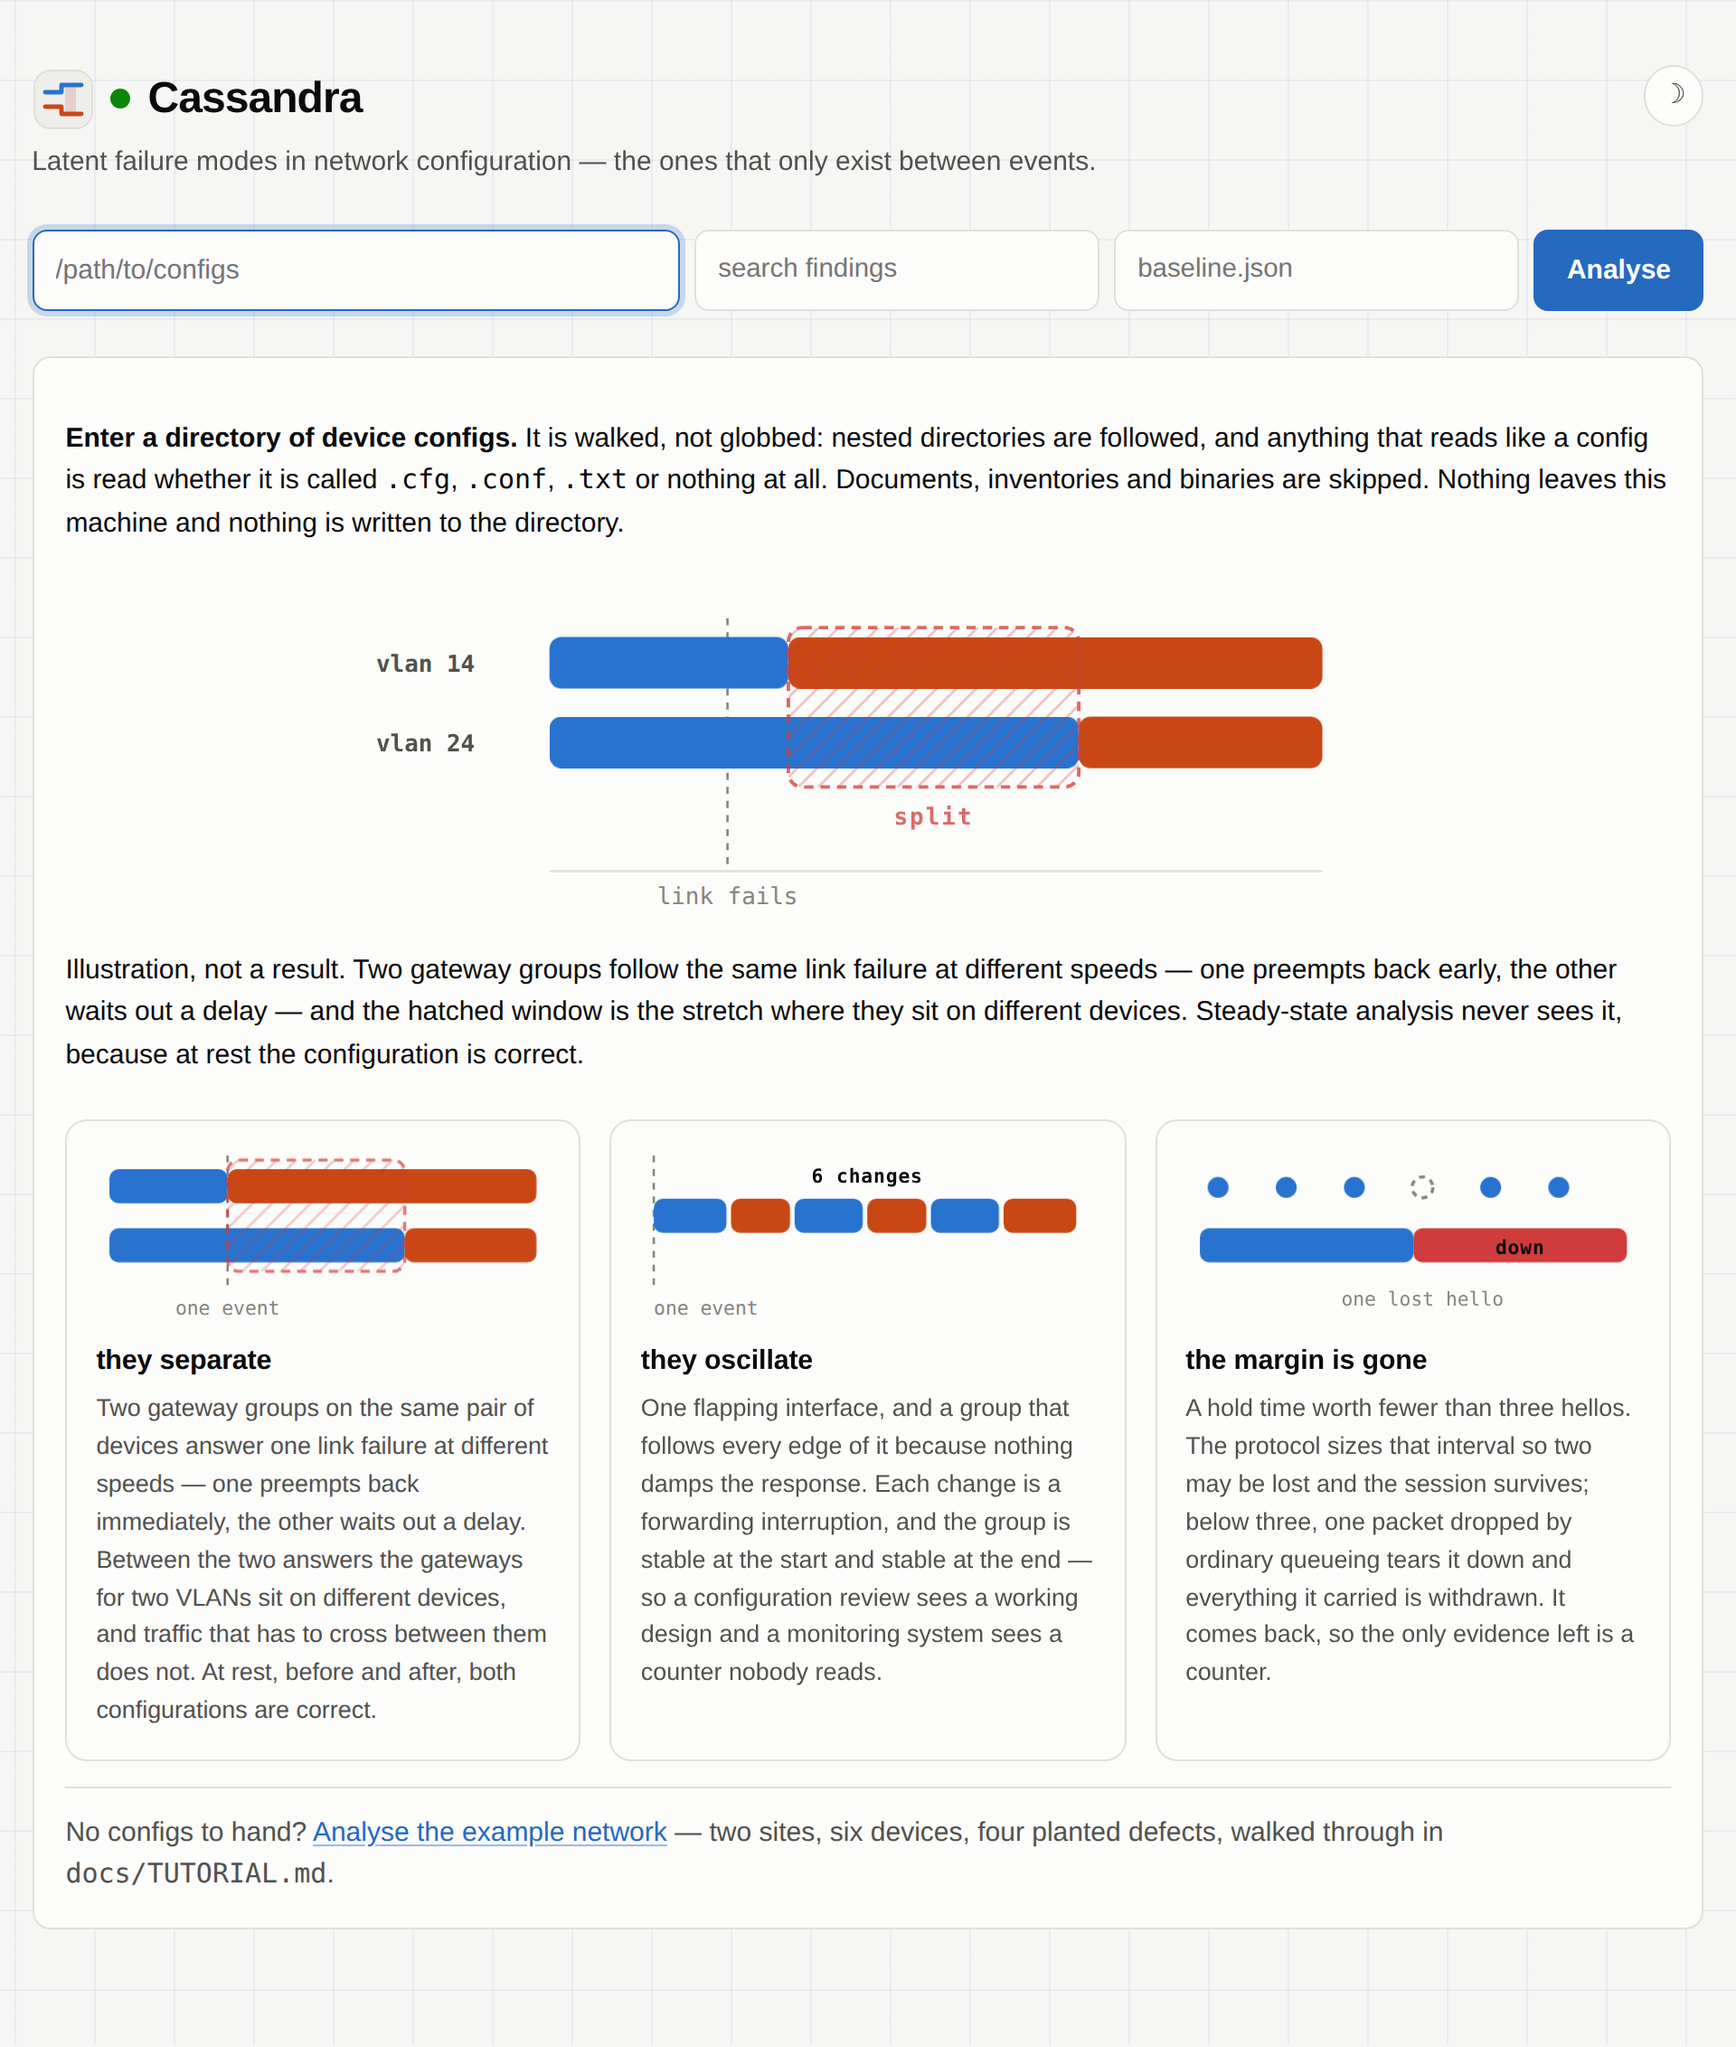
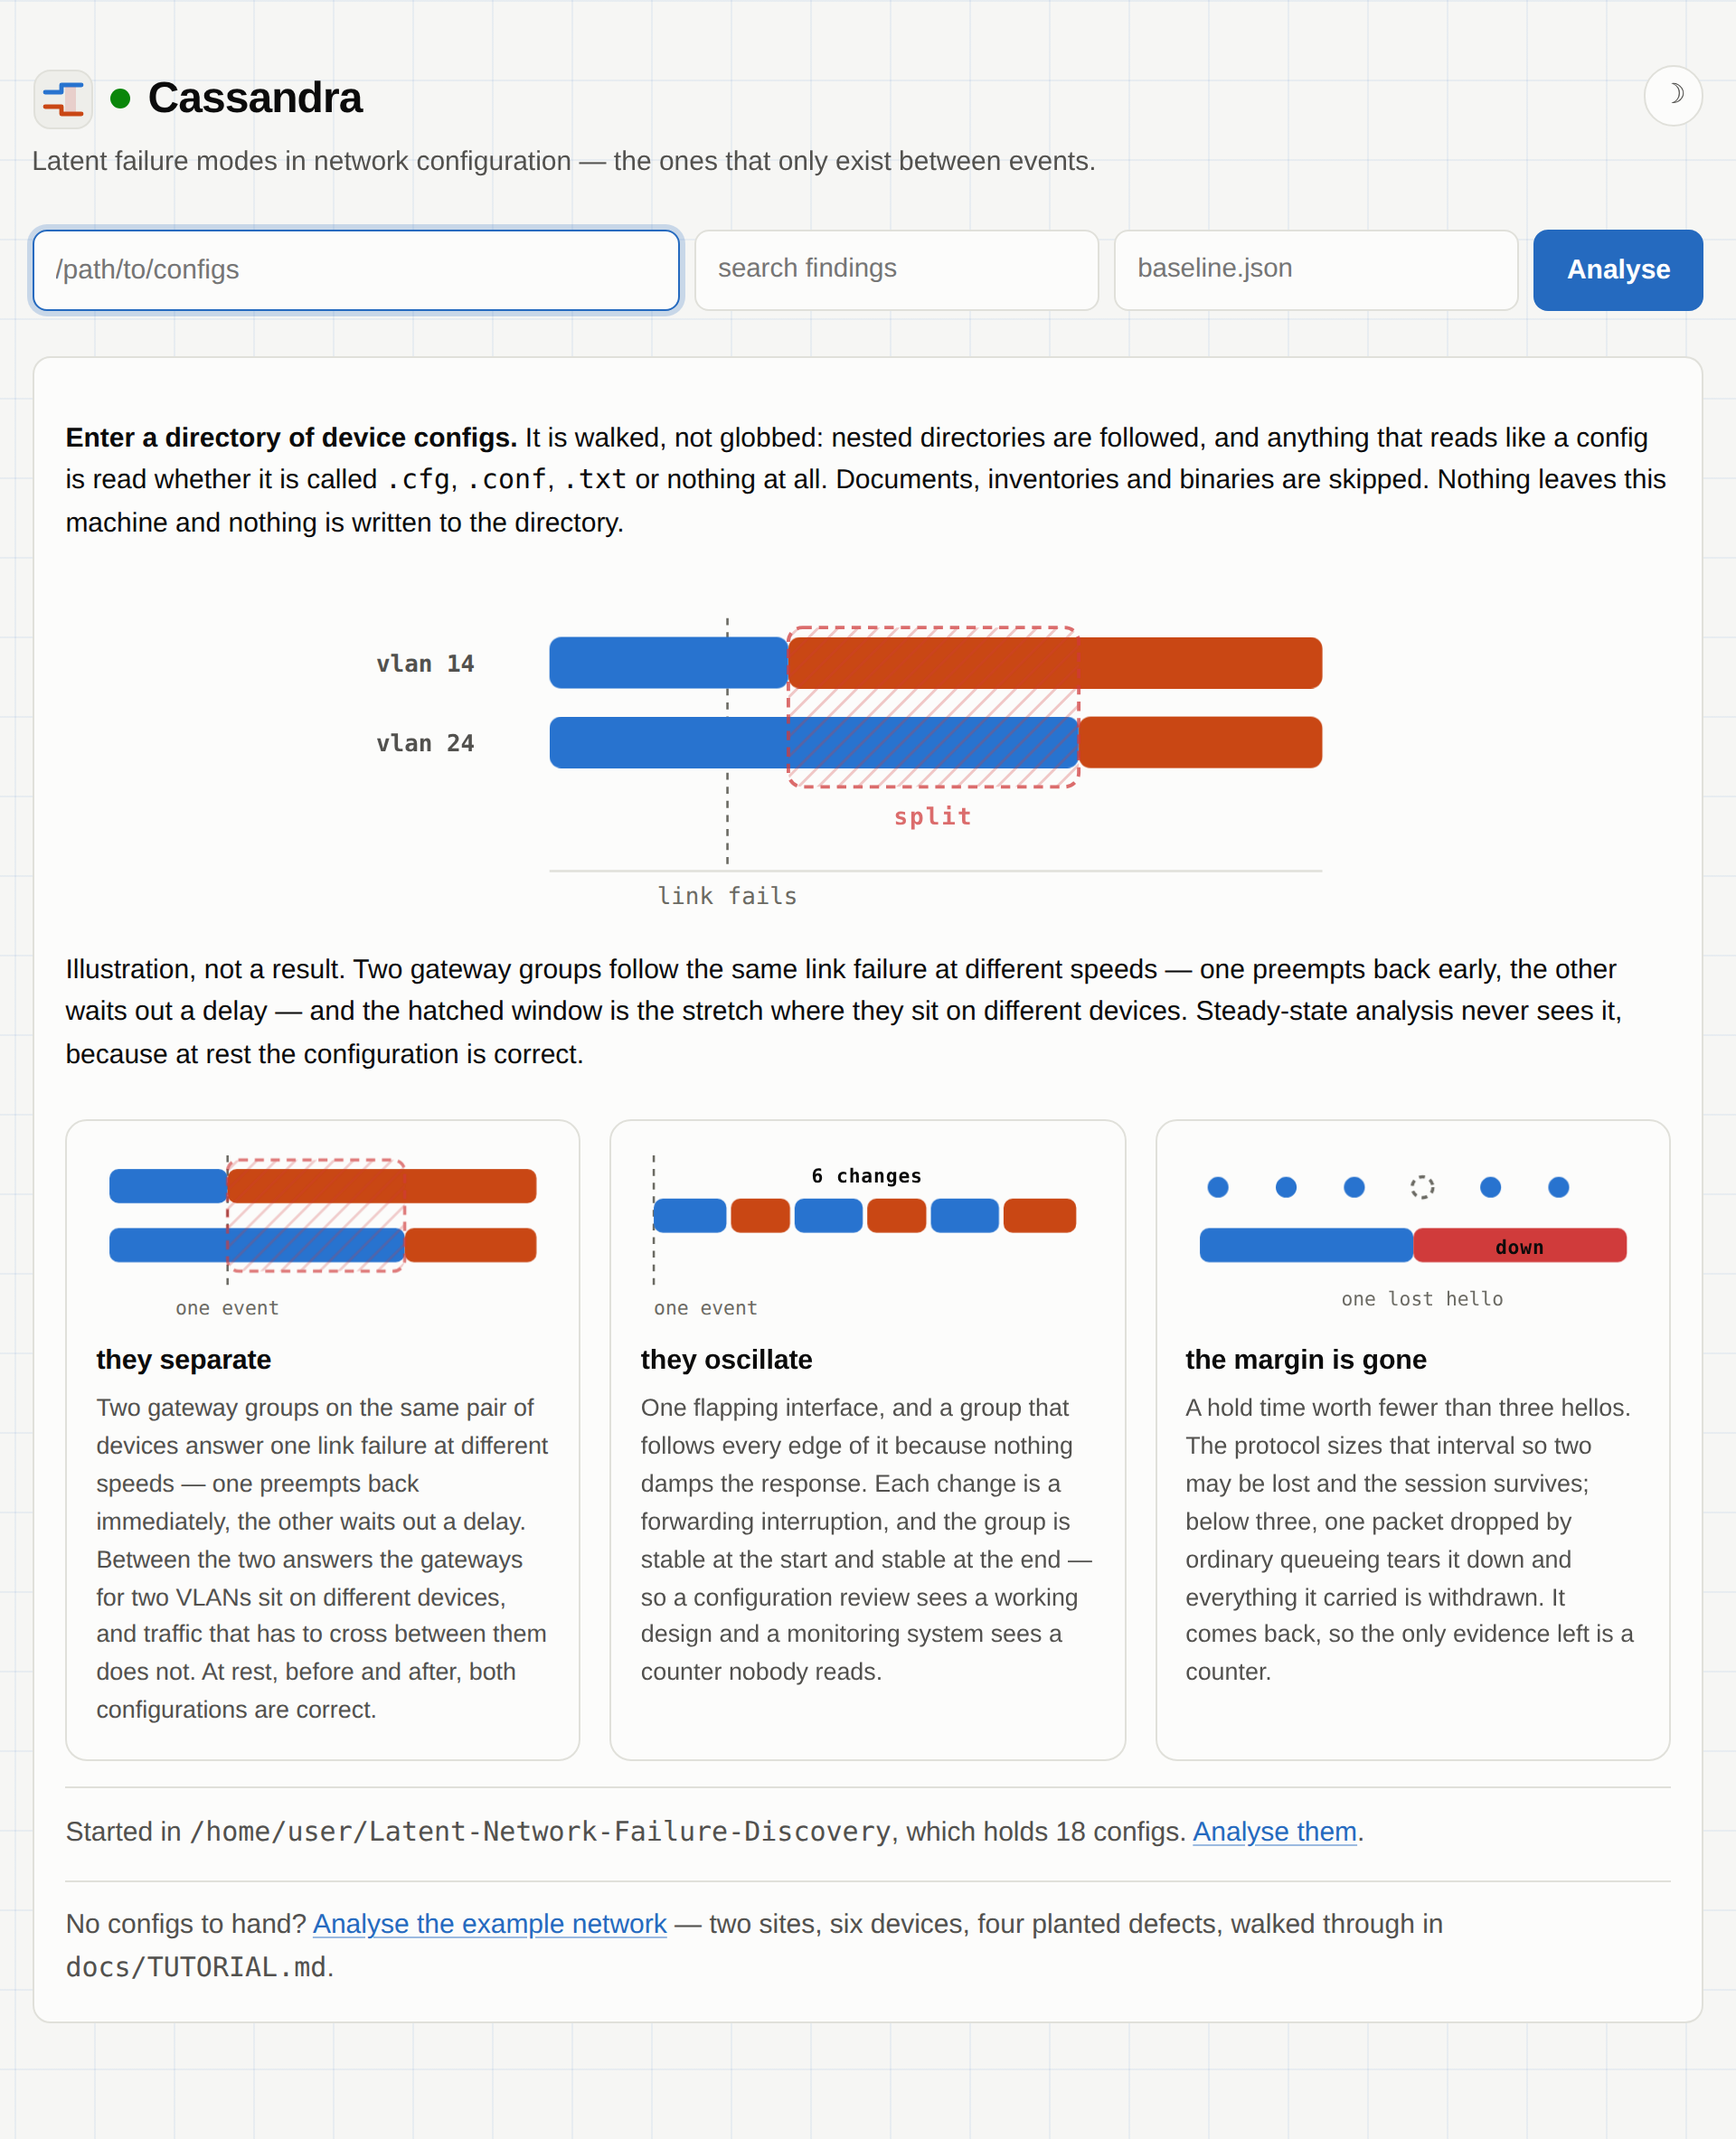
Make the quiet ink readable, and stop painting white on a light accent
A browser measuring every rendered text node against the background it
actually sits on found four hundred and thirty elements below the WCAG
body bar across four pages. Nearly all of them were one colour.

`--ink-3` was 3.2:1 against the darkest surface. It is the caption
colour, and it is also what section headings, filter labels, table
headers, rule source paths and every `.cap` paragraph wear — none of
which is large text. The test that guarded it asserted the large-text
floor of 3.0 and said in its own docstring that this was a floor and not
a target. A test naming the wrong bar passes while the thing it guards is
broken, which is worse than not having it; it now asserts the body bar
against all three surfaces, and the old value fails it.

The rest was the Analyse button and a chip that is on, both painting a
hardcoded white on the accent. The light theme's accent carries white at
5.4:1. The dark theme's is a light blue, where white is 2.5:1 and near
black is 7.9:1. One literal cannot serve both, so there is a token for
it, and a test that fails if anything paints a literal on an accent fill
again.

Zero failures now, on four pages, in both themes.

diff --git a/tests/test_palette.py b/tests/test_palette.py
@@ -88,17 +88,57 @@ def test_body_text_is_readable_on_every_surface(
 
 
 @pytest.mark.parametrize(("theme", "palette"), _themes())
-def test_the_quietest_ink_still_clears_the_large_text_bar(
+def test_the_quietest_ink_is_still_body_text(
     theme: str, palette: dict[str, str]
 ) -> None:
-    """--ink-3 is for captions, tick labels and hints.
+    """--ink-3 is for captions, tick labels, table headers and hints.
 
-    It is allowed to be quiet. It is not allowed to be unreadable, and the
-    figures use it at 10 and 11 pixels, which is not large text — so this is the
-    floor below which those labels would have to be recoloured, not the target.
+    It is allowed to be quiet. It is not allowed to be unreadable, and it is
+    held to the body bar rather than the large-text one because nothing wearing
+    it is large: section headings at 13px, filter labels at 12.5px, `.src` at
+    12.5px, figure ticks at 10px.
+
+    This test used to assert the large-text floor of 3.0, with a docstring
+    saying that was a floor and not a target. It was 3.2:1 against the darkest
+    surface, and a browser measuring every rendered text node found four hundred
+    and thirty elements below the body bar across four pages — nearly all of
+    them this one colour. A test that names the wrong bar passes while the thing
+    it guards is broken, which is worse than not having it.
     """
-    ratio = contrast(palette["--ink-3"], palette["--surface-1"])
-    assert ratio >= LARGE_MIN, f"{theme}: --ink-3 is {ratio:.2f}:1"
+    for surface in ("--surface-0", "--surface-1", "--surface-2"):
+        ratio = contrast(palette["--ink-3"], palette[surface])
+        assert ratio >= BODY_MIN, (
+            f"{theme}: --ink-3 on {surface} is {ratio:.2f}:1, below {BODY_MIN}"
+        )
+
+
+@pytest.mark.parametrize(("theme", "palette"), _themes())
+def test_text_on_a_filled_accent_is_readable(
+    theme: str, palette: dict[str, str]
+) -> None:
+    """The Analyse button and a chip that is on are text on the accent colour.
+
+    Both wore a hardcoded white. The light theme's accent is dark enough to
+    carry it at 5.4:1; the dark theme's is a light blue, where white is 2.5:1
+    and near-black is 7.9:1. One colour cannot serve both, which is why there is
+    a token for it — and why nothing here may go back to naming a literal.
+    """
+    ratio = contrast(palette["--on-accent"], palette["--accent"])
+    assert ratio >= BODY_MIN, (
+        f"{theme}: --on-accent on --accent is {ratio:.2f}:1, below {BODY_MIN}"
+    )
+
+
+def test_nothing_paints_text_on_the_accent_with_a_literal() -> None:
+    """The regression this pair replaced: a white that was right in one theme."""
+    from cassandra.style import STYLE
+
+    for rule in re.findall(r"[^{}]*\{[^{}]*\}", STYLE):
+        if "var(--accent)" not in rule or "background" not in rule:
+            continue
+        assert "color: #" not in rule and "color: white" not in rule, (
+            f"a literal text colour on an accent fill: {rule.strip()[:80]}"
+        )
 
 
 @pytest.mark.parametrize(("theme", "palette"), _themes())

diff --git a/cassandra/style.py b/cassandra/style.py
@@ -17,8 +17,13 @@ from typing import Final
 # selectors is a palette that drifts in three of them.
 LIGHT: Final = """
   --surface-0: #f6f6f4; --surface-1: #fcfcfb; --surface-2: #eeeeea;
-  --ink-1: #0b0b0b; --ink-2: #52514e; --ink-3: #85847e;
-  --line: #e0e0da; --accent: #256abf;
+  --ink-1: #0b0b0b; --ink-2: #52514e; --ink-3: #6b6a63;
+  --line: #e0e0da; --accent: #256abf; --on-accent: #ffffff;
+  /* --on-accent is the text on a filled accent — the Analyse button, a chip
+     that is on. It is per theme rather than one white, because the dark theme's
+     accent is a light blue and white on it is 2.5:1, which is not text. Near
+     black on the same fill is 7.9:1. The light theme's accent is dark enough to
+     carry white at 5.4:1, so that half is unchanged. */
   --s-critical: #d03b3b; --s-serious: #c84917; --s-warning: #9a6a03;
   --s-good: #0a860a;
   --series-1: #2873cf; --series-2: #c94714; --series-3: #14835c;
@@ -33,7 +38,7 @@ LIGHT: Final = """
 DARK: Final = """
   --surface-0: #131312; --surface-1: #1a1a19; --surface-2: #232320;
   --ink-1: #ffffff; --ink-2: #c3c2b7; --ink-3: #8e8d85;
-  --line: #2e2c28; --accent: #6da7ec;
+  --line: #2e2c28; --accent: #6da7ec; --on-accent: #0b0b0b;
   --s-critical: #d85b5b; --s-serious: #ec835a; --s-warning: #fab219;
   --s-good: #0ca30c;
   --series-1: #3987e5; --series-2: #d95926; --series-3: #199e70;
@@ -351,7 +356,7 @@ input[type=text].since, input[type=text].query {
   flex: 0 1 11rem; font-size: .92rem; }
 button.go {
   padding: .62rem 1.15rem; border: 0; border-radius: 8px; background: var(--accent);
-  color: #fff; font: inherit; font-weight: 620; cursor: pointer;
+  color: var(--on-accent); font: inherit; font-weight: 620; cursor: pointer;
   transition: transform .12s ease, filter .18s;
 }
 button.go:hover { filter: brightness(1.08); transform: translateY(-1px); }
@@ -451,7 +456,8 @@ svg.topology .node { transform-box: fill-box; transform-origin: center; }
   transition: border-color .15s, color .15s, transform .12s; }
 .chip:hover { transform: translateY(-1px); color: var(--ink-1);
   border-color: var(--accent); }
-.chip.on { background: var(--accent); border-color: var(--accent); color: #fff; }
+.chip.on { background: var(--accent); border-color: var(--accent);
+  color: var(--on-accent); }
 .chips .label { color: var(--ink-3); font-size: .78rem; text-transform: uppercase;
   letter-spacing: .05em; align-self: center; min-width: 4.2rem; }
 /* The node is the hit area, not just its label. */
